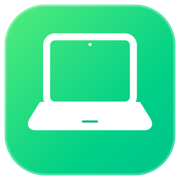
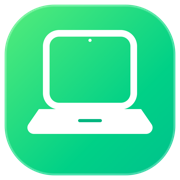
Add device data migration and refresh app branding

diff --git a/app.js b/app.js
@@ -7,9 +7,7 @@ const LISTINGS_URL = './listings.json';
 const DELETED_LISTINGS_URL = './deleted-listings.json';
 const GITHUB_API_ROOT = 'https://api.github.com/repos/BENGBENGBENG7/macbook-flip-calculator';
 const SYNC_INTERVAL_MS = 60 * 60 * 1000;
-// No age-based expiry: listings.json is curated by the watch (sold/delisted items
-// are removed there), so a listing must stay visible until the watch removes it.
-// (An earlier 3-day TTL silently hid still-for-sale machines.)
+const SYNCED_LISTING_TTL_MS = 3 * 24 * 60 * 60 * 1000;
 function loadRateCache() {
   try {
     const cached = JSON.parse(localStorage.getItem(RATE_CACHE_KEY)||'null');
@@ -64,6 +62,66 @@ function loadUserDeletedIds() {
   } catch { return new Set(); }
 }
 function saveUserDeletedIds(ids) { localStorage.setItem(USER_DELETED_IDS_KEY, JSON.stringify([...ids])); }
+function makeDataBackup() {
+  return {
+    format: 'macbook-flip-backup',
+    version: 1,
+    exportedAt: new Date().toISOString(),
+    listings,
+    userDeletedIds: [...loadUserDeletedIds()],
+    expiredSyncIds: [...loadExpiredSyncIds()],
+    rateCache: loadRateCache(),
+  };
+}
+async function exportDataBackup() {
+  const contents = `${JSON.stringify(makeDataBackup(), null, 2)}\n`;
+  const filename = `Macbook-flip-backup-${new Date().toISOString().slice(0, 10)}.json`;
+  if (window.macbookFlip?.saveBackup) {
+    const result = await window.macbookFlip.saveBackup(contents, filename);
+    if (result?.canceled) return;
+    if (!result?.ok) throw new Error('备份文件保存失败');
+    toast(`已导出备份：${result.filePath}`);
+    return;
+  }
+  const url = URL.createObjectURL(new Blob([contents], {type: 'application/json'}));
+  const link = document.createElement('a');
+  link.href = url;
+  link.download = filename;
+  document.body.append(link);
+  link.click();
+  link.remove();
+  setTimeout(() => URL.revokeObjectURL(url), 1000);
+  toast('备份已下载，请保存到新电脑或云盘');
+}
+function importDataBackup(backup) {
+  if (backup?.format !== 'macbook-flip-backup' || backup.version !== 1 || !Array.isArray(backup.listings)) {
+    throw new Error('备份格式不正确或版本不支持');
+  }
+  const deletedIds = loadUserDeletedIds();
+  for (const id of Array.isArray(backup.userDeletedIds) ? backup.userDeletedIds : []) deletedIds.add(String(id));
+  saveUserDeletedIds(deletedIds);
+  const expiredIds = loadExpiredSyncIds();
+  for (const id of Array.isArray(backup.expiredSyncIds) ? backup.expiredSyncIds : []) expiredIds.add(String(id));
+  saveExpiredSyncIds(expiredIds);
+  const merged = new Map(listings.map(item => [listingKey(item), item]));
+  for (const item of backup.listings) {
+    if (!item || typeof item !== 'object') continue;
+    const key = listingKey(item);
+    if (!deletedIds.has(key) && !expiredIds.has(key)) merged.set(key, {...item, id: key});
+  }
+  listings = [...merged.values()].filter(item => !deletedIds.has(listingKey(item)) && !expiredIds.has(listingKey(item)));
+  saveListings();
+  if (backup.rateCache && Number(backup.rateCache.rate) > 0) {
+    localStorage.setItem(RATE_CACHE_KEY, JSON.stringify(backup.rateCache));
+    cnyToSgd = Number(backup.rateCache.rate);
+    rateDate = String(backup.rateCache.date || '');
+    rateStatus = 'cached';
+    updateRateText();
+  }
+  pruneExpiredListings();
+  render();
+  scheduleExpiryCheck();
+}
 async function loadGithubToken() {
   try {
     githubToken = window.macbookFlip?.getGithubToken
@@ -218,14 +276,36 @@ function loadExpiredSyncIds() {
 }
 function saveExpiredSyncIds(ids) { localStorage.setItem(EXPIRED_SYNC_IDS_KEY, JSON.stringify([...ids])); }
 function pruneExpiredListings(now=Date.now()) {
-  // No-op by design: no age-based expiry (see note where the TTL used to be).
-  // Listings leave the tool only when the watch removes them from listings.json,
-  // or when the user deletes them. Kept so existing callers keep working.
-  return 0;
+  const expiredIds = loadExpiredSyncIds();
+  let removed = 0;
+  let newExpiredId = false;
+  listings = listings.filter(item => {
+    if (!item.syncManaged) return true;
+    const id = listingKey(item);
+    const firstSeenAt = timestamp(item.firstSeenAt || item.createdAt || item.created_at, now);
+    item.firstSeenAt = firstSeenAt;
+    if (expiredIds.has(id) || now - firstSeenAt >= SYNCED_LISTING_TTL_MS) {
+      if (!expiredIds.has(id)) { expiredIds.add(id); newExpiredId = true; }
+      removed += 1;
+      return false;
+    }
+    return true;
+  });
+  if (removed) saveListings();
+  if (newExpiredId) saveExpiredSyncIds(expiredIds);
+  return removed;
 }
 function scheduleExpiryCheck() {
-  // No-op by design: no age-based expiry (see pruneExpiredListings).
-  return;
+  if (expiryTimer) clearTimeout(expiryTimer);
+  const expiries = listings
+    .filter(item => item.syncManaged)
+    .map(item => timestamp(item.firstSeenAt || item.createdAt, Date.now()) + SYNCED_LISTING_TTL_MS);
+  if (!expiries.length) return;
+  const delay = Math.max(1000, Math.min(...expiries) - Date.now() + 20);
+  expiryTimer = setTimeout(() => {
+    if (pruneExpiredListings()) render();
+    scheduleExpiryCheck();
+  }, delay);
 }
 function esc(value='') { return String(value).replace(/[&<>"']/g, c => ({'&':'&amp;','<':'&lt;','>':'&gt;','"':'&quot;',"'":'&#39;'}[c])); }
 function money(value, currency='SGD') {
@@ -303,6 +383,10 @@ function inferPlatform(platform, url='') {
   return platform || '闲鱼';
 }
 function listingKey(item) { return String(item.id || item.itemId || item.goodsId || item.url || item.link || `${item.description || item.title || ''}|${item.priceCny || item.price || ''}`); }
+function sellerNameOnly(value) {
+  const leading = String(value || '').split(/[·|｜]/, 1)[0].trim();
+  return leading.replace(/\s*[（(](?=[^）)]*(?:已验证|评价|信用|信誉|评分|好评|\d(?:\.\d)?\s*分))[^）)]*[）)]\s*/gi, '').trim();
+}
 function normalizeFeedItem(raw) {
   const item = {...raw};
   item.id = listingKey(item);
@@ -395,6 +479,11 @@ async function syncListings() {
       const item = preserveAnalysis(normalized, currentByKey.get(listingKey(normalized)));
       const id = listingKey(item);
       if (allDeletedIds.has(id) || userDeletedIds.has(id)) continue;
+      const wasExpired = expiredIds.has(id);
+      if (wasExpired || now - timestamp(item.firstSeenAt, now) >= SYNCED_LISTING_TTL_MS) {
+        if (!wasExpired) { expiredIds.add(id); expiredCount += 1; }
+        continue;
+      }
       synced.push(item);
     }
     saveExpiredSyncIds(expiredIds);
@@ -495,7 +584,7 @@ function renderDetail(item) {
       <div class="card-heading detail-heading"><div class="feed-title-static"><span class="platform-badge ${platformClass}">${esc(platformLabel)}</span><h2>${esc(item.description || '未命名商品')}</h2></div><span class="decision ${decision}">${labels[decision]}</span></div>
       <div class="price-comparison"><div><small>商品挂价</small><strong class="asking-price">${listingPriceLabel(item,c)}</strong>${soldReference(item,c)}</div><div><small>建议购入价</small><strong>${suggestedBuyLabel(item,c)}</strong>${Number.isFinite(c.maxBuyCny) && Number(item.priceCny) > 0 && c.maxBuyCny > Number(item.priceCny) ? '<small>挂价已低于可接受上限，按挂价买即可</small>' : ''}</div><div class="comparison-profit"><small>预计利润区间</small><strong class="${c.profitLow>=0?'pos':'neg'}">${amountRangeFromSgd(c.profitLow,c.profitHigh,'SGD')}</strong></div></div>
       <p class="recommend-line"><span class="recommend-score ${recTone}"><small>推荐指数</small><strong>${score}<small>%</small></strong></span><span>按已成交样本估算 · ${esc(item.sampleCount || 1)} 个样本</span></p>
-      <p class="seller-line">卖家：<button type="button" class="seller-copy" data-copy-seller="${esc(item.seller || '')}" title="点击复制卖家名字">${esc(item.seller || '未填写')}<span aria-hidden="true">复制</span></button></p>
+      <p class="seller-line">卖家：<button type="button" class="seller-copy" data-copy-seller="${esc(sellerNameOnly(item.sellerName || item.nickname || item.username || item.seller || ''))}" title="点击复制卖家名字">${esc(item.seller || '未填写')}<span aria-hidden="true">复制</span></button></p>
       ${listing?`<a class="product-link" href="${esc(listing)}" target="_blank" rel="noopener"><span class="product-link-icon" aria-hidden="true"><svg viewBox="0 0 24 24"><path d="M13.5 6H18v4.5M18 6l-8 8"/><path d="M17 13v5H6V7h5"/></svg></span><span class="product-link-copy"><strong>打开商品页面</strong><small>${esc(new URL(listing).hostname)}</small></span><span class="product-link-arrow" aria-hidden="true">↗</span></a>`:''}
       <section class="detail-section"><h3 class="section-title">机器信息</h3><div class="spec-grid">${spec('平台',item.platform)}${spec('尺寸',item.size)}${spec('芯片',item.chip)}${spec('内存',item.memory)}${spec('硬盘',item.storage)}${spec('电池健康',item.battery)}${spec('循环次数',item.cycles ? `${item.cycles} 次` : '')}${spec('成色',item.condition)}${spec('保修',item.warranty)}</div></section>
       <section class="detail-section"><h3 class="section-title">费用明细 <small>点击金额切换 CNY / SGD</small></h3><div class="cost-list">
@@ -586,7 +675,27 @@ function openForm(item) {
 }
 document.querySelector('#closeDialog').addEventListener('click',()=>dialog.close());
 document.querySelector('#cancelDialog').addEventListener('click',()=>dialog.close());
-document.querySelector('#sortMode').addEventListener('change',render);
+document.querySelector('#sortMode').addEventListener('change',()=>{render();window.scrollTo({top:0,behavior:'smooth'});});
+const backupDialog = document.querySelector('#backupDialog');
+document.querySelector('#backupData').addEventListener('click',()=>backupDialog.showModal());
+document.querySelector('#closeBackupDialog').addEventListener('click',()=>backupDialog.close());
+document.querySelector('#exportBackup').addEventListener('click',async()=>{
+  try { await exportDataBackup(); backupDialog.close(); }
+  catch(error) { console.error('导出备份失败',error); toast(error.message || '导出备份失败'); }
+});
+const backupFileInput = document.querySelector('#backupFileInput');
+document.querySelector('#importBackup').addEventListener('click',()=>backupFileInput.click());
+backupFileInput.addEventListener('change',async()=>{
+  const file=backupFileInput.files?.[0];
+  backupFileInput.value='';
+  if(!file)return;
+  try {
+    const backup=JSON.parse(await file.text());
+    importDataBackup(backup);
+    backupDialog.close();
+    toast('已导入备份并合并到当前巡查列表');
+  } catch(error) { console.error('导入备份失败',error); toast(error.message || '备份文件读取失败'); }
+});
 document.querySelector('#refreshRate').addEventListener('click',fetchRate);
 const githubTokenDialog = document.querySelector('#githubTokenDialog');
 document.querySelector('#githubAuthButton').addEventListener('click',openGithubAuthDialog);

diff --git a/index.html b/index.html
@@ -9,15 +9,15 @@
   <meta name="apple-mobile-web-app-title" content="Macbook flip">
   <meta name="description" content="MacBook Pro 翻新买卖核算工具：实时汇率、费用明细、成交价估算与利润排序。">
   <title>Macbook flip</title>
-  <link rel="stylesheet" href="styles.css?v=market-home-20261115b">
-  <link rel="icon" href="logo.svg" type="image/svg+xml">
-  <link rel="apple-touch-icon" sizes="180x180" href="apple-touch-icon.png?v=market-home-20261115b">
-  <link rel="manifest" href="manifest.webmanifest">
+  <link rel="stylesheet" href="styles.css?v=market-home-20261115c">
+  <link rel="icon" href="logo.svg?v=rounded-20261115" type="image/svg+xml">
+  <link rel="apple-touch-icon" sizes="180x180" href="apple-touch-icon.png?v=logo-rounded-20261115">
+  <link rel="manifest" href="manifest.webmanifest?v=logo-rounded-20261115">
 </head>
 <body>
   <header class="topbar">
-    <a class="brand" href="#top" aria-label="Macbook flip 首页"><span class="brand-mark" aria-hidden="true"><svg viewBox="0 0 40 40"><defs><linearGradient id="brandGreen" x1="0" y1="0" x2="1" y2="1"><stop offset="0" stop-color="#42e968"/><stop offset="1" stop-color="#00bd78"/></linearGradient></defs><rect x="1" y="1" width="38" height="38" rx="11" fill="url(#brandGreen)"/><rect x="11" y="8.5" width="18" height="14" rx="2.8" fill="none" stroke="#fff" stroke-width="2.3"/><path d="M7.5 26h25l-2.1 3.2a1.8 1.8 0 0 1-1.5.8H11.1a1.8 1.8 0 0 1-1.5-.8L7.5 26Z" fill="#fff"/><path d="M17 27.5h6" stroke="#16a96b" stroke-width="1.1" stroke-linecap="round"/></svg></span><span>Macbook <b>flip</b></span></a>
-    <div class="header-status"><div class="rate-pill"><span class="live-dot"></span><span id="rateText">正在获取汇率…</span><button id="refreshRate" class="icon-button" title="刷新汇率" aria-label="刷新汇率">↻</button></div><div class="sync-controls"><div class="sync-label"><span class="sync-dot"></span><span id="syncText">等待巡查数据同步</span></div><button id="githubAuthButton" class="github-auth-button" type="button" aria-label="授权商品删除同步到 GitHub" title="只用于把删除记录回写 GitHub"><svg viewBox="0 0 24 24" aria-hidden="true"><circle cx="8" cy="15" r="4"/><path d="m11 12 8-8 3 3-3 3-2-2-2 2 2 2-3 3"/></svg><span id="githubAuthText">删除同步授权</span></button><button id="syncNow" class="sync-button" type="button" aria-label="手动同步最新巡查数据"><svg viewBox="0 0 24 24" aria-hidden="true"><path d="M20 7v5h-5M4 17v-5h5"/><path d="M5.6 9a7 7 0 0 1 11.8-2L20 12M4 12l2.6 5a7 7 0 0 0 11.8-2"/></svg><span>同步巡查</span></button></div></div>
+    <a class="brand" href="#top" aria-label="Macbook flip 首页"><span class="brand-mark" aria-hidden="true"><svg viewBox="0 0 40 40"><defs><linearGradient id="brandGreen" x1="0" y1="0" x2="1" y2="1"><stop offset="0" stop-color="#42e968"/><stop offset="1" stop-color="#00bd78"/></linearGradient></defs><rect x=".5" y=".5" width="39" height="39" rx="14" fill="url(#brandGreen)"/><rect x="10.5" y="7.8" width="19" height="15" rx="4" fill="none" stroke="#fff" stroke-width="2.2"/><circle cx="20" cy="10.1" r=".7" fill="#fff"/><path d="M7.3 26h25.4l-2.2 3.2a2.2 2.2 0 0 1-1.8 1H11.3a2.2 2.2 0 0 1-1.8-1L7.3 26Z" fill="#fff"/><path d="M17.2 27.4h5.6" stroke="#12a96b" stroke-width="1.25" stroke-linecap="round"/></svg></span><span>Macbook <b>flip</b></span></a>
+    <div class="header-status"><div class="rate-pill"><span class="live-dot"></span><span id="rateText">正在获取汇率…</span><button id="refreshRate" class="icon-button" title="刷新汇率" aria-label="刷新汇率">↻</button></div><div class="sync-controls"><div class="sync-label"><span class="sync-dot"></span><span id="syncText">等待巡查数据同步</span></div><button id="githubAuthButton" class="github-auth-button" type="button" aria-label="授权商品删除同步到 GitHub" title="只用于把删除记录回写 GitHub"><svg viewBox="0 0 24 24" aria-hidden="true"><circle cx="8" cy="15" r="4"/><path d="m11 12 8-8 3 3-3 3-2-2-2 2 2 2-3 3"/></svg><span id="githubAuthText">删除同步授权</span></button><button id="backupData" class="backup-button" type="button" aria-label="导出或导入个人数据" title="迁移本机保存的分析数据"><svg viewBox="0 0 24 24" aria-hidden="true"><path d="M12 3v11m0 0 4-4m-4 4-4-4"/><path d="M5 14v5a2 2 0 0 0 2 2h10a2 2 0 0 0 2-2v-5"/></svg><span>数据备份</span></button><button id="syncNow" class="sync-button" type="button" aria-label="手动同步最新巡查数据"><svg viewBox="0 0 24 24" aria-hidden="true"><path d="M20 7v5h-5M4 17v-5h5"/><path d="M5.6 9a7 7 0 0 1 11.8-2L20 12M4 12l2.6 5a7 7 0 0 0 11.8-2"/></svg><span>同步巡查</span></button></div></div>
   </header>
 
   <main id="top" class="page-shell">
@@ -76,6 +76,12 @@
       <div class="dialog-actions token-actions"><button type="button" class="quiet-button delete" id="disconnectGithub" hidden>断开并移除令牌</button><button type="button" class="secondary-button" id="cancelGithubToken">取消</button><button class="primary-button" id="saveGithubToken">连接</button></div>
     </form>
   </dialog>
+  <dialog id="backupDialog" class="token-dialog backup-dialog" aria-label="数据备份与迁移">
+    <div class="dialog-head"><div><p class="eyebrow">DATA PORTABILITY</p><h2>备份与迁移</h2></div><button type="button" class="icon-button close-button" id="closeBackupDialog" aria-label="关闭">×</button></div>
+    <p class="token-explanation">商品分析和删除记录保存在当前设备或浏览器。换电脑前先导出备份，再在新设备导入即可恢复；GitHub 令牌不会放进备份，需要在新设备重新授权。</p>
+    <div class="dialog-actions backup-actions"><button type="button" class="secondary-button" id="importBackup">导入备份</button><button type="button" class="primary-button" id="exportBackup">导出备份</button></div>
+    <input id="backupFileInput" type="file" accept="application/json,.json" hidden>
+  </dialog>
   <dialog id="imageDialog" class="image-dialog" aria-label="商品原图预览">
     <div class="image-viewer-toolbar">
       <div class="image-viewer-title"><strong>商品照片</strong><span id="imageDimensions">正在读取图片尺寸…</span><span id="imageCounter" aria-live="polite" hidden>1 / 1</span></div>
@@ -84,6 +90,6 @@
     <div id="imageViewerStage" class="image-viewer-stage"><button type="button" id="previousViewerImage" class="image-viewer-nav previous" aria-label="上一张照片" hidden>‹</button><img id="fullSizeImage" alt="商品原图" title="点击切换显示比例"><button type="button" id="nextViewerImage" class="image-viewer-nav next" aria-label="下一张照片" hidden>›</button></div>
     <p class="image-viewer-hint">使用左右按钮切换照片 · 点击照片切换原尺寸 · 可双指缩放</p>
   </dialog>
-  <script src="app.js?v=listing-ttl-3days-20261115"></script>
+  <script src="app.js?v=local-backup-rounded-logo-20261115"></script>
 </body>
 </html>

diff --git a/styles.css b/styles.css
@@ -168,3 +168,23 @@
   #githubTokenForm{padding:23px 19px 18px}
   .token-explanation{font-size:12px}
 }
+.backup-button{display:inline-flex;align-items:center;justify-content:center;gap:6px;min-height:36px;padding:0 10px;border:1px solid #d9e3dc;border-radius:10px;background:#f6f9f6;color:#40594a;font-size:11px;font-weight:650;white-space:nowrap;transition:background .18s,border-color .18s}
+.backup-button:hover{background:#edf5ef;border-color:#afc8b7}
+.backup-button svg{width:16px;height:16px;fill:none;stroke:currentColor;stroke-width:1.8;stroke-linecap:round;stroke-linejoin:round}
+.backup-dialog{padding:27px 28px 23px}
+.backup-dialog .dialog-head{margin-bottom:17px}
+.backup-actions{margin-top:19px}
+.sold-reference{font-size:11px}
+.sold-reference>small{font-size:9px}
+.sold-reference i{font-size:9px}
+.price-comparison .sold-reference{font-size:12px}
+.price-comparison .sold-reference>small{font-size:10px}
+@media(max-width:620px){
+  .backup-button{width:31px;min-width:31px;height:31px;min-height:31px;padding:0;border-radius:9px}
+  .backup-button span{display:none}
+  .backup-dialog{padding:23px 19px 18px}
+  .sold-reference{font-size:10px}
+  .sold-reference>small,.sold-reference i{font-size:8px}
+  .price-comparison .sold-reference{font-size:11px}
+  .price-comparison .sold-reference>small{font-size:9px}
+}

diff --git a/README.md b/README.md
@@ -10,8 +10,12 @@
 - 新加坡售价由用户输入近期、同配置的真实成交价区间与来源；按输入区间计算利润。不把平台在售标价当成成交价，也不自动抓取交易平台。
 - 明列采购价、闲鱼运费、验货宝、跨境运输、整备、平台费和总成本；可调整新加坡端费用、平台费率及目标利润。
 - 显示买入判断和最高建议买价；支持编辑、删除、利润排序，数据保存在当前浏览器的 localStorage。
-- GitHub 巡查同步条目保留 3 天，超过 3 天后会自动从列表清理；本机手动添加的条目不受影响。
+- 支持导出 / 导入个人数据备份。换电脑前在顶部“数据备份”中导出 JSON，到新设备导入后可恢复本地分析、删除记录和汇率缓存；GitHub 令牌不会写进备份，需要在新设备重新授权。
 - 桌面双列、手机单列布局。
+
+## 更换电脑时迁移数据
+
+Mac App 和每个浏览器各自保存本机数据，因此换电脑或清除旧电脑时，先在旧设备打开工具，点顶部“数据备份”→“导出备份”，将 JSON 文件存到云盘、U 盘或新电脑能访问的位置。新电脑打开 App 或网页，再点“数据备份”→“导入备份”。商品巡查列表会继续从 GitHub 同步；备份用于迁移各设备上单独保存的分析和删除状态。GitHub 令牌为安全起见不包含在备份中。
 
 ## 安装与运行
 
